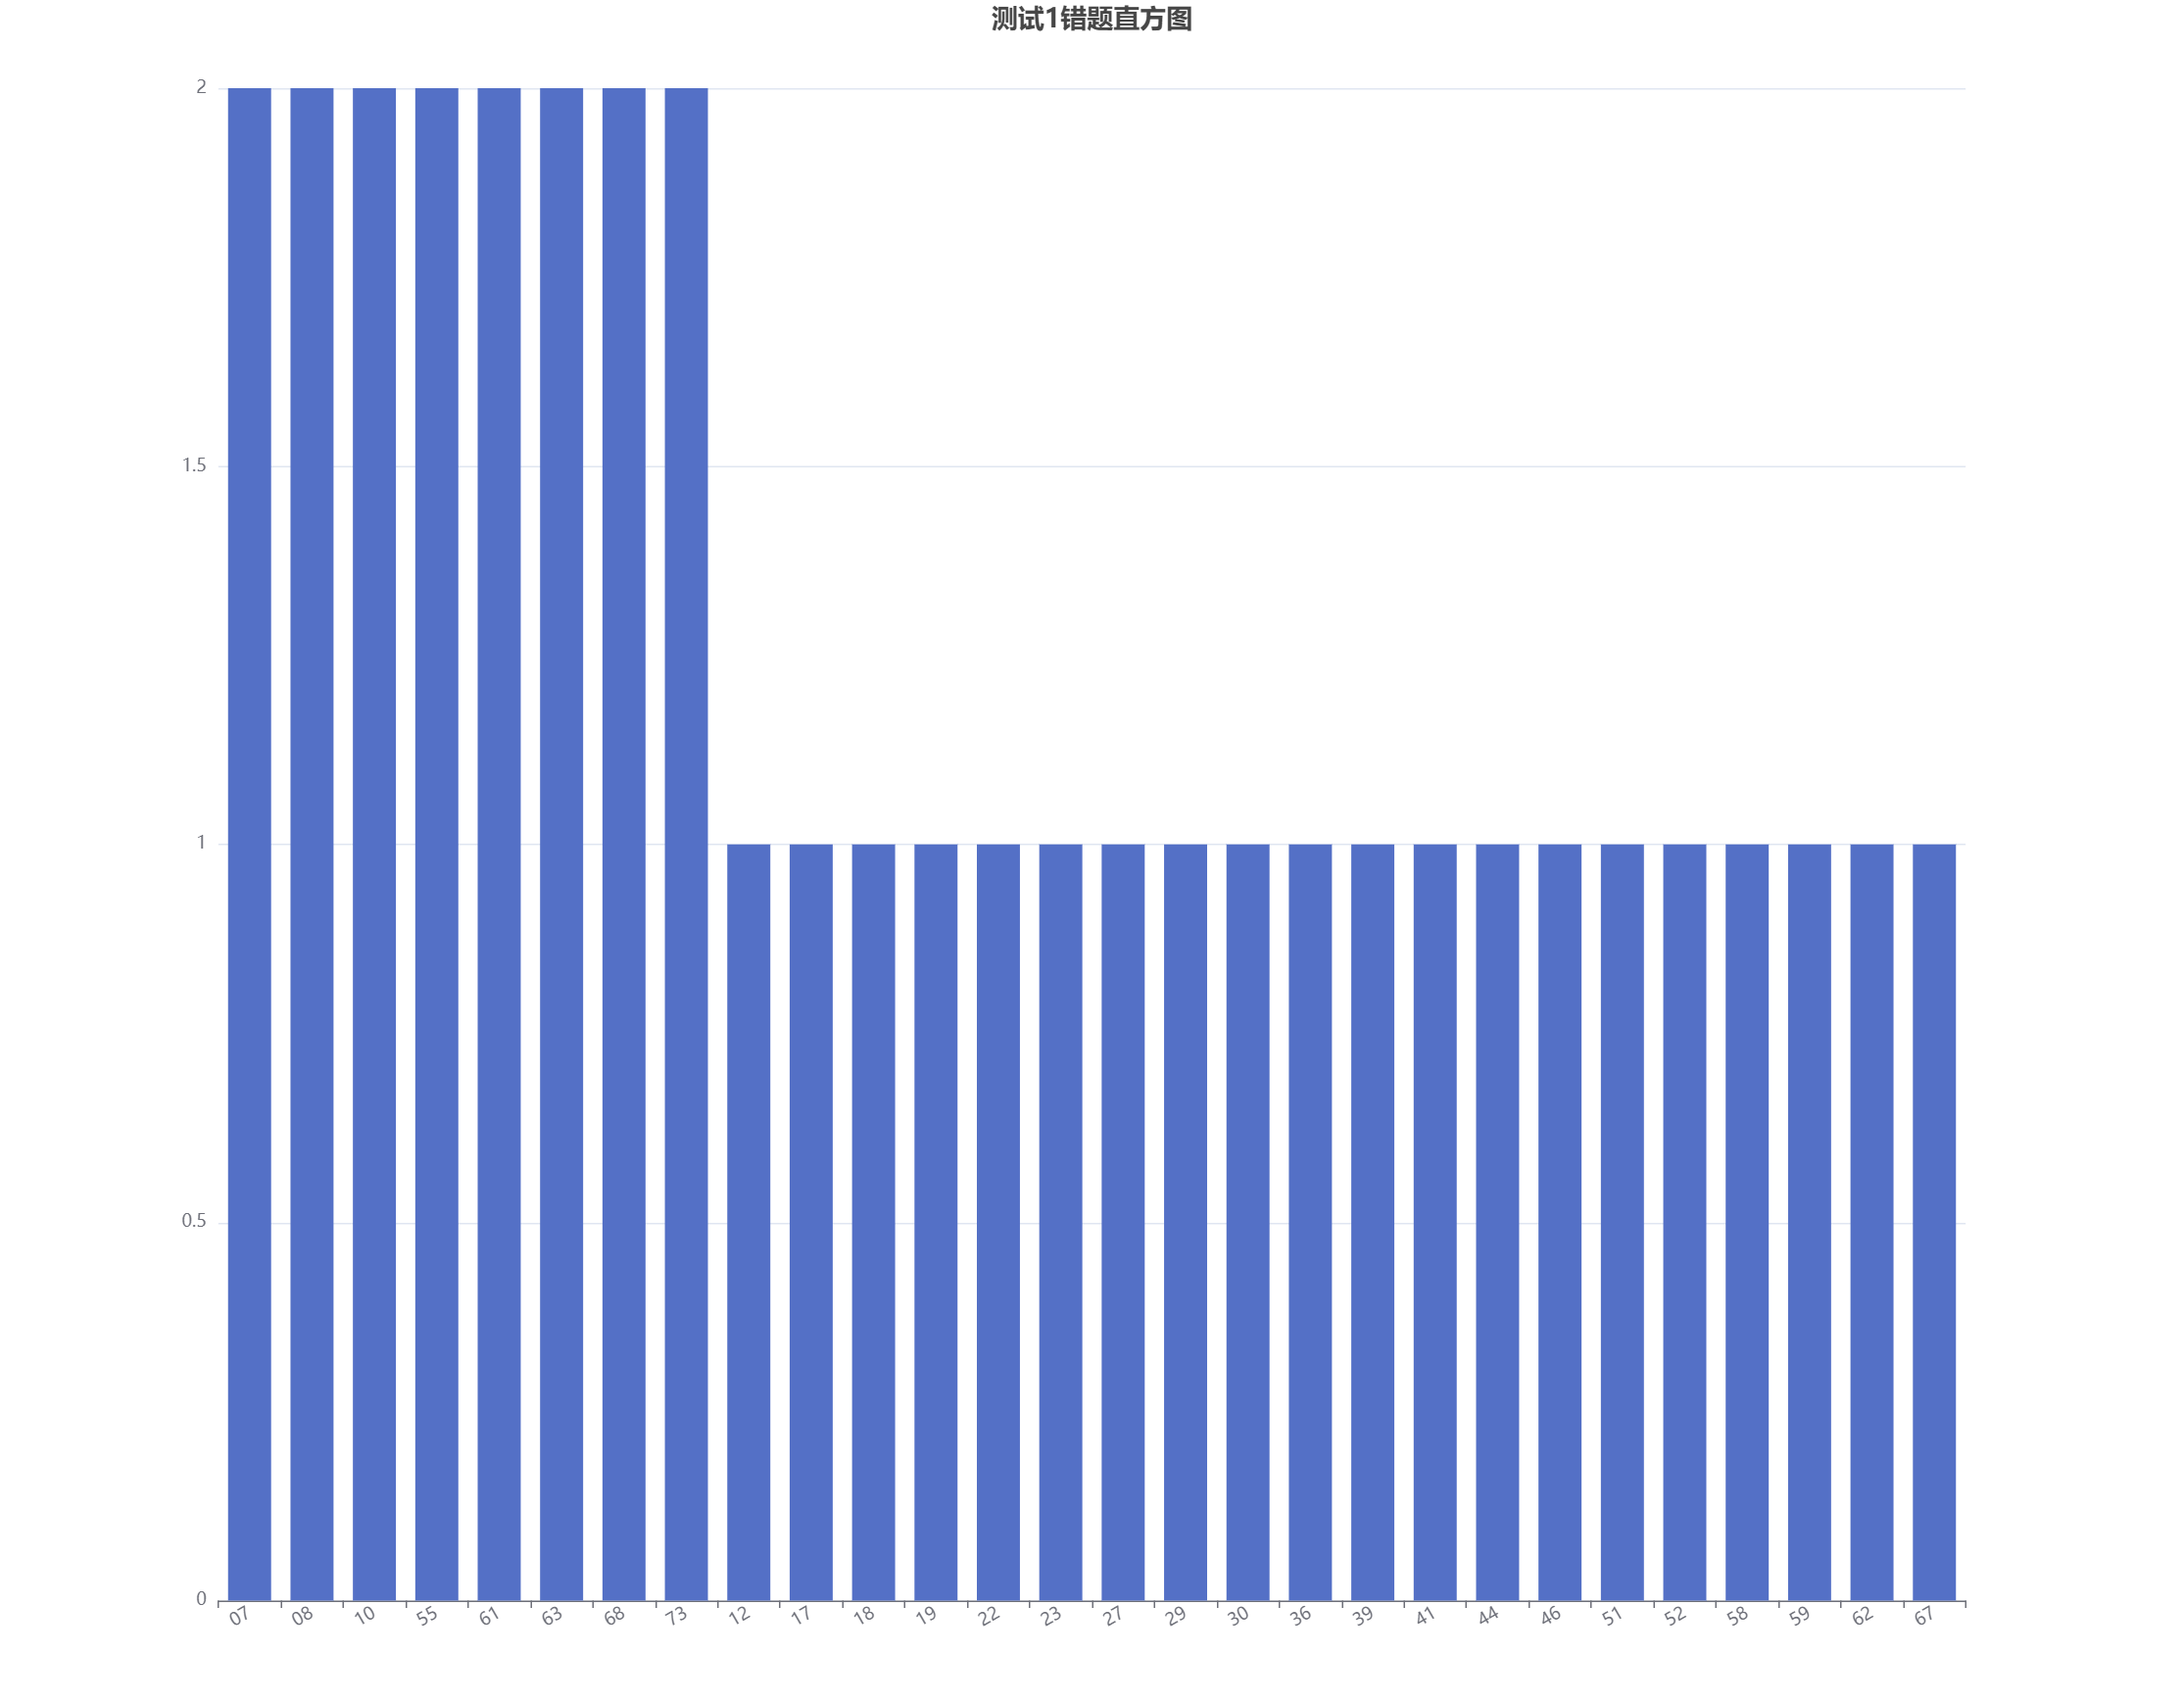
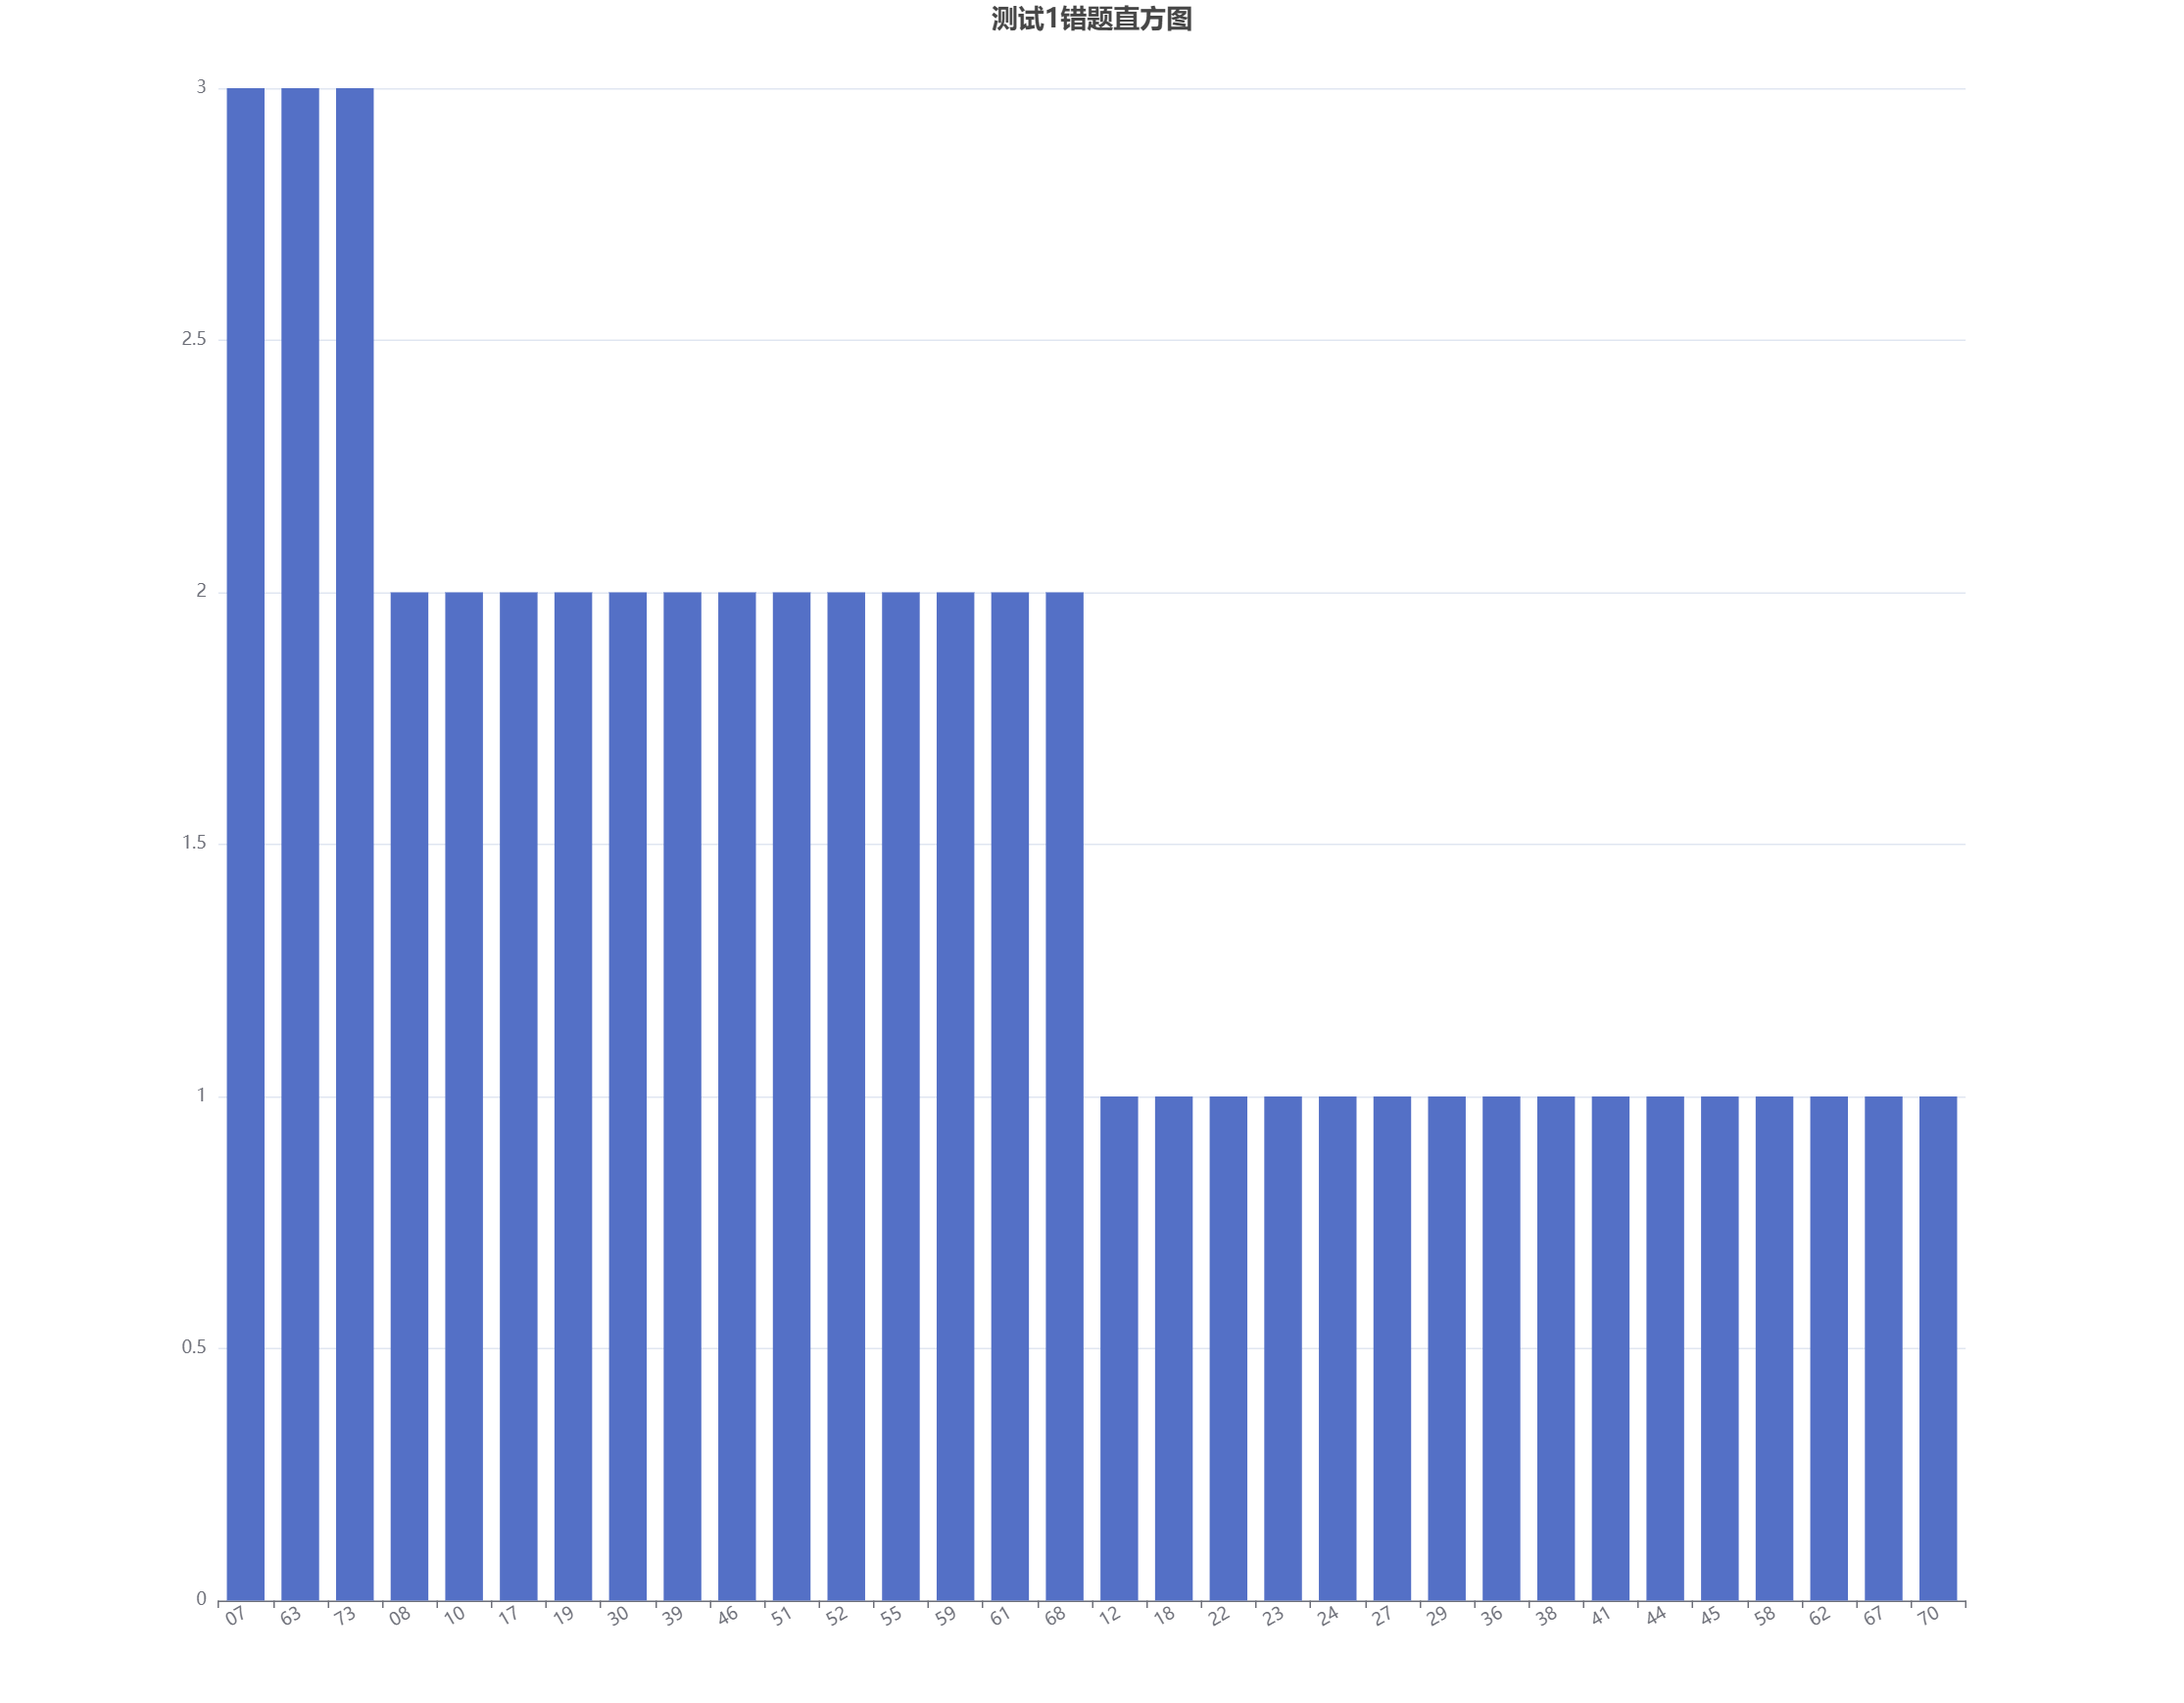
1. update test result 2. add prettier config file

Changed region(s): [[0.0929, 0.0311, 0.8977, 0.9632]]

diff --git a/src/result.js b/src/result.js
@@ -1,57 +1,61 @@
 option = {
   title: {
-    left: "center",
-    text: "测试1错题直方图",
+    left: 'center',
+    text: '测试1错题直方图',
   },
   dataset: [
     {
-      dimensions: ["number", "frequent"],
+      dimensions: ['number', 'frequent'],
       source: [
-        ["07", 2],
-        ["08", 2],
-        ["10", 2],
-        ["12", 1],
-        ["17", 1],
-        ["18", 1],
-        ["19", 1],
-        ["22", 1],
-        ["23", 1],
-        ["27", 1],
-        ["29", 1],
-        ["30", 1],
-        ["36", 1],
-        ["39", 1],
-        ["41", 1],
-        ["44", 1],
-        ["46", 1],
-        ["51", 1],
-        ["52", 1],
-        ["55", 2],
-        ["58", 1],
-        ["59", 1],
-        ["61", 2],
-        ["62", 1],
-        ["63", 2],
-        ["67", 1],
-        ["68", 2],
-        ["73", 2],
+        ['07', 3],
+        ['08', 2],
+        ['10', 2],
+        ['12', 1],
+        ['17', 2],
+        ['18', 1],
+        ['19', 2],
+        ['22', 1],
+        ['23', 1],
+        ['24', 1],
+        ['27', 1],
+        ['29', 1],
+        ['30', 2],
+        ['36', 1],
+        ['38', 1],
+        ['39', 2],
+        ['41', 1],
+        ['44', 1],
+        ['45', 1],
+        ['46', 2],
+        ['51', 2],
+        ['52', 2],
+        ['55', 2],
+        ['58', 1],
+        ['59', 2],
+        ['61', 2],
+        ['62', 1],
+        ['63', 3],
+        ['67', 1],
+        ['68', 2],
+        ['70', 1],
+        ['73', 3],
       ],
     },
     {
       transform: {
-        type: "sort",
-        config: { dimension: "frequent", order: "desc" },
+        type: 'sort',
+        config: { dimension: 'frequent', order: 'desc' },
       },
     },
   ],
   xAxis: {
-    type: "category",
+    type: 'category',
     axisLabel: { interval: 0, rotate: 30 },
   },
   yAxis: {},
   series: {
-    type: "bar",
-    encode: { x: "number", y: "frequent" },
+    type: 'bar',
+    encode: { x: 'number', y: 'frequent' },
     datasetIndex: 1,
   },
 };
@@ -60,53 +64,53 @@ option = {
 
 option = {
   title: {
-    left: "center",
-    text: "测试2错题直方图",
+    left: 'center',
+    text: '测试2错题直方图',
   },
   dataset: [
     {
-      dimensions: ["number", "frequent"],
+      dimensions: ['number', 'frequent'],
       source: [
-        ["01", 1],
-        ["06", 2],
-        ["07", 1],
-        ["10", 1],
-        ["12", 1],
-        ["13", 1],
-        ["16", 2],
-        ["19", 1],
-        ["21", 1],
-        ["22", 1],
-        ["25", 1],
-        ["26", 2],
-        ["28", 1],
-        ["29", 1],
-        ["42", 1],
-        ["43", 1],
-        ["49", 2],
-        ["55", 1],
-        ["64", 2],
-        ["66", 1],
-        ["68", 1],
-        ["71", 2],
-        ["72", 1],
+        ['01', 1],
+        ['06', 2],
+        ['07', 1],
+        ['10', 1],
+        ['12', 1],
+        ['13', 1],
+        ['16', 2],
+        ['19', 1],
+        ['21', 1],
+        ['22', 1],
+        ['25', 1],
+        ['26', 2],
+        ['28', 1],
+        ['29', 1],
+        ['42', 1],
+        ['43', 1],
+        ['49', 2],
+        ['55', 1],
+        ['64', 2],
+        ['66', 1],
+        ['68', 1],
+        ['71', 2],
+        ['72', 1],
       ],
     },
     {
       transform: {
-        type: "sort",
-        config: { dimension: "frequent", order: "desc" },
+        type: 'sort',
+        config: { dimension: 'frequent', order: 'desc' },
       },
     },
   ],
   xAxis: {
-    type: "category",
+    type: 'category',
     axisLabel: { interval: 0, rotate: 30 },
   },
   yAxis: {},
   series: {
-    type: "bar",
-    encode: { x: "number", y: "frequent" },
+    type: 'bar',
+    encode: { x: 'number', y: 'frequent' },
     datasetIndex: 1,
   },
 };

diff --git a/src/rate.js b/src/rate.js
@@ -1,35 +1,35 @@
 option = {
   title: {
-    left: "center",
-    text: "测试1正确率推移",
+    left: 'center',
+    text: '测试1正确率推移',
   },
   tooltip: {
-    trigger: "axis",
+    trigger: 'axis',
   },
   xAxis: {
-    type: "category",
-    data: ["第一回", "第二回"],
+    type: 'category',
+    data: ['第一回', '第二回', '第三回'],
   },
   yAxis: {
-    type: "value",
+    type: 'value',
     scale: true,
     axisLabel: {
-      formatter: "{value}%",
+      formatter: '{value}%',
     },
   },
   series: [
     {
-      data: [80.3, 73.7],
-      type: "line",
+      data: [80.3, 73.7, 80.3],
+      type: 'line',
       markLine: {
-        symbol: ["none", "none"],
+        symbol: ['none', 'none'],
         label: { show: true },
         data: [{ yAxis: 75 }],
       },
       markPoint: {
         data: [
-          { type: "max", name: "最大值" },
-          { type: "min", name: "最小值" },
+          { type: 'max', name: '最大值' },
+          { type: 'min', name: '最小值' },
         ],
       },
     },
@@ -40,36 +40,36 @@ option = {
 
 option = {
   title: {
-    left: "center",
-    text: "测试2正确率推移",
+    left: 'center',
+    text: '测试2正确率推移',
   },
   tooltip: {
-    trigger: "axis",
+    trigger: 'axis',
   },
   xAxis: {
-    type: "category",
-    data: ["第一回", "第二回"],
+    type: 'category',
+    data: ['第一回', '第二回'],
   },
   yAxis: {
-    type: "value",
+    type: 'value',
     scale: true,
     axisLabel: {
-      formatter: "{value}%",
+      formatter: '{value}%',
     },
   },
   series: [
     {
       data: [76.3, 85.5],
-      type: "line",
+      type: 'line',
       markLine: {
-        symbol: ["none", "none"],
+        symbol: ['none', 'none'],
         label: { show: true },
         data: [{ yAxis: 75 }],
       },
       markPoint: {
         data: [
-          { type: "max", name: "最大值" },
-          { type: "min", name: "最小值" },
+          { type: 'max', name: '最大值' },
+          { type: 'min', name: '最小值' },
         ],
       },
     },
